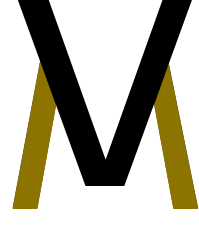
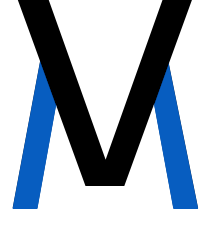
Add files via upload

Changed region(s): [[0.0603, 0.2614, 0.3015, 0.8714], [0.7538, 0.2614, 0.995, 0.8714]]

diff --git a/public/styles/index.css b/public/styles/index.css
@@ -55,10 +55,6 @@ body{
     }
 }
 
-.containTop{
-
-}
-
 .contain{
     width: 100%;
     height: auto;
@@ -77,12 +73,12 @@ body{
 }
 
 .logo{
-    width:100px;
+    width: 100px;
     margin-top: 15px;
 }
 
 .lastName{
-    color: #8d7300;
+    color: #075dc0;
     text-shadow: 1px 1px 3px rgb(255, 255, 255);
     font-size: 37px;
     display: block;
